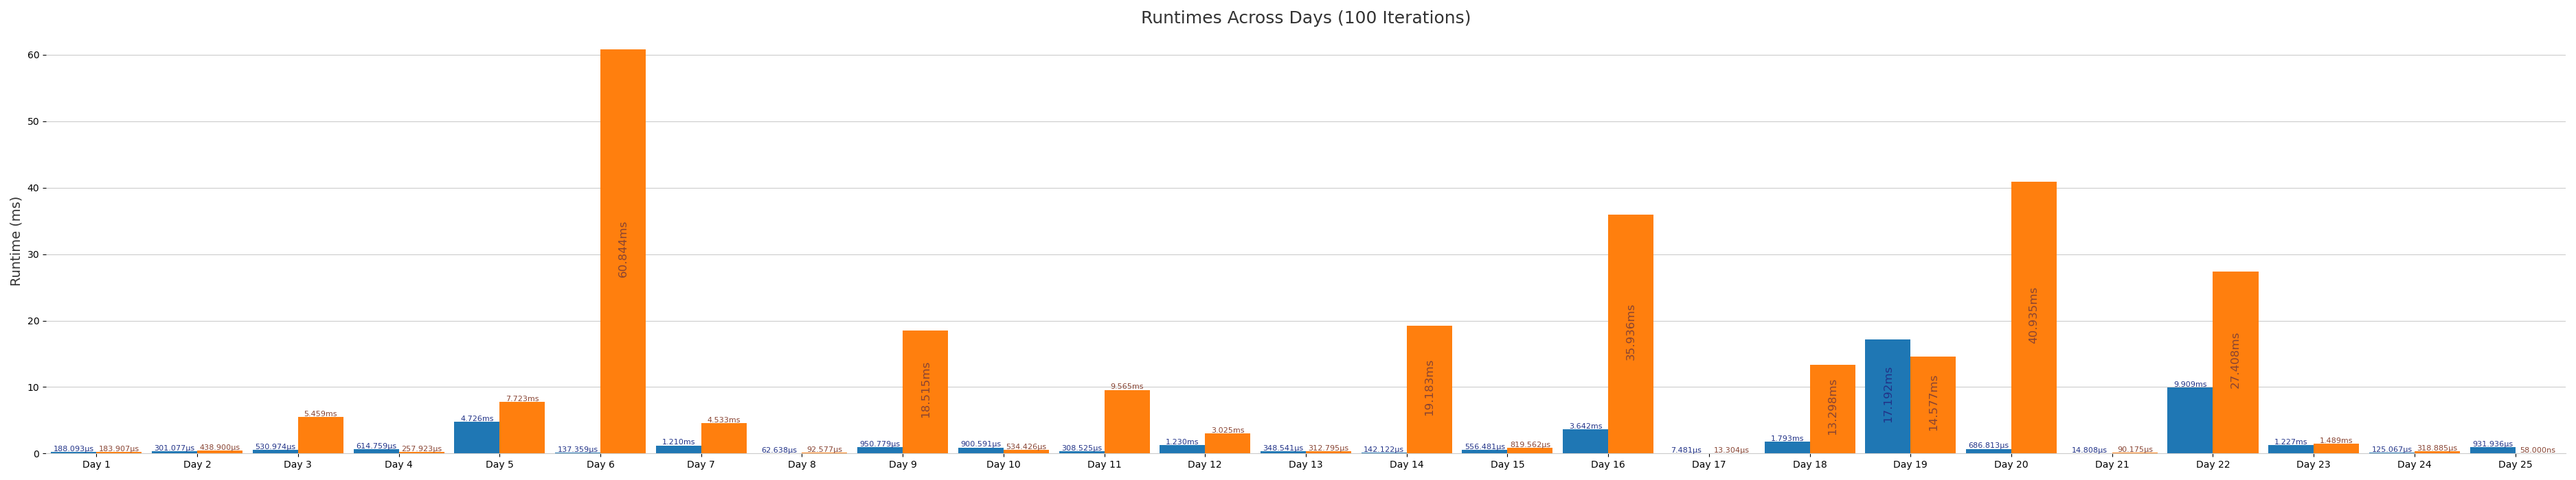
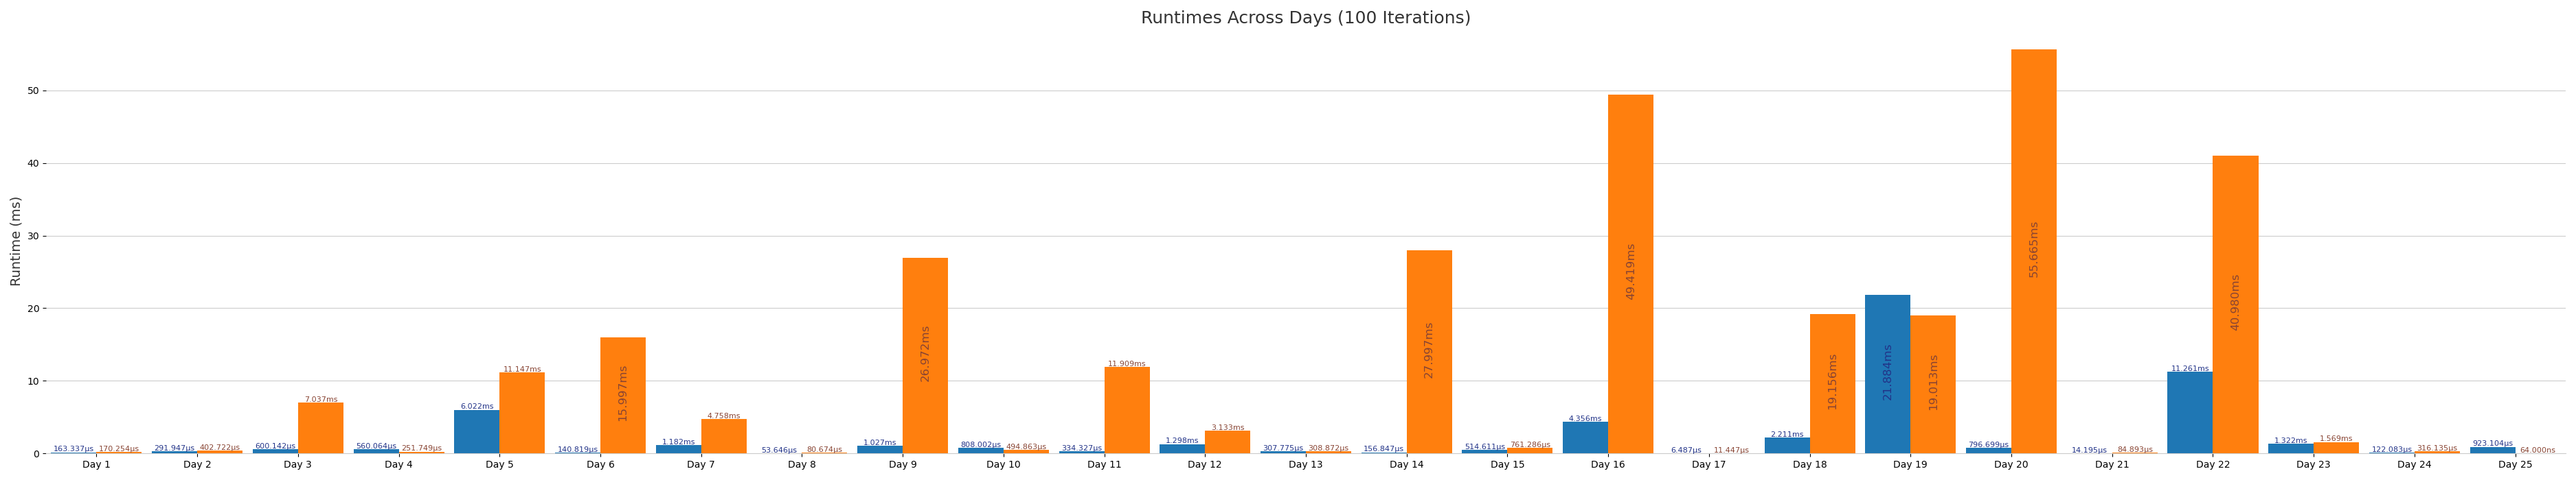
Day 6 🚀

diff --git a/day6/src/main.rs b/day6/src/main.rs
@@ -1,3 +1,5 @@
+use ahash::AHashSet;
+use rayon::prelude::*;
 use utils::test_solutions;
 
 fn main() {
@@ -6,37 +8,12 @@ fn main() {
 
 /* ------------------- Helpers ------------------- */
 
-#[derive(Debug)]
-enum DIRECTION {
-    UP,
-    DOWN,
-    LEFT,
-    RIGHT,
+fn dir_to_vec(dir: u8) -> (i32, i32) {
+    [(0, -1), (1, 0), (0, 1), (-1, 0)][dir as usize]
 }
 
-fn dir_to_vec(dir: &DIRECTION) -> (i32, i32) {
-    match dir {
-        DIRECTION::UP => (0, -1),
-        DIRECTION::RIGHT => (1, 0),
-        DIRECTION::DOWN => (0, 1),
-        DIRECTION::LEFT => (-1, 0),
-    }
-}
-
-fn rot_dir(dir: &DIRECTION) -> DIRECTION {
-    match dir {
-        DIRECTION::UP => DIRECTION::RIGHT,
-        DIRECTION::RIGHT => DIRECTION::DOWN,
-        DIRECTION::DOWN => DIRECTION::LEFT,
-        DIRECTION::LEFT => DIRECTION::UP,
-    }
-}
-
-/* ------------------- Solutions ------------------- */
-
-#[allow(unused_variables)]
-fn first_part(input: &str) -> i32 {
-    let mut grid: Vec<Vec<char>> = vec![];
+fn parse_input(input: &str) -> (Vec<Vec<char>>, (usize, usize)) {
+    let mut grid: Vec<Vec<char>> = Vec::with_capacity(input.lines().count());
     let mut guard: (usize, usize) = (0, 0);
 
     for (y, line) in input.lines().enumerate() {
@@ -50,10 +27,19 @@ fn first_part(input: &str) -> i32 {
         }
         grid.push(subgrid);
     }
+
+    (grid, guard)
+}
+
+/* ------------------- Solutions ------------------- */
+
+#[allow(unused_variables)]
+fn first_part(input: &str) -> u32 {
+    let (mut grid, mut guard) = parse_input(input);
     let height: usize = grid.len();
     let width: usize = grid[0].len();
 
-    let mut total: i32 = 0;
+    let mut total = 0;
 
     let mut direction: (i32, i32) = (0, -1);
     loop {
@@ -85,32 +71,19 @@ fn first_part(input: &str) -> i32 {
 }
 
 #[allow(unused_variables)]
-fn second_part(input: &str) -> i32 {
-    let mut grid: Vec<Vec<char>> = vec![];
-    let mut main_guard: (usize, usize) = (0, 0);
-
-    for (y, line) in input.lines().enumerate() {
-        let mut subgrid: Vec<char> = vec![];
-        for (x, char) in line.chars().enumerate() {
-            subgrid.push(char);
-
-            if char == '^' {
-                main_guard = (x, y);
-            }
-        }
-        grid.push(subgrid);
-    }
+fn second_part(input: &str) -> u32 {
+    let (grid, main_guard) = parse_input(input);
     let height: usize = grid.len();
     let width: usize = grid[0].len();
 
     // Run the guard once and store the path.
     let mut guard = main_guard.clone();
 
-    let mut wall_poses: Vec<(usize, usize)> = vec![];
-    let mut direction: DIRECTION = DIRECTION::UP;
+    let mut main_path: AHashSet<(usize, usize)> = AHashSet::new();
+    let mut direction: u8 = 0;
     loop {
         let (fx, fy) = guard;
-        let (dx, dy) = dir_to_vec(&direction);
+        let (dx, dy) = dir_to_vec(direction);
 
         let (nx, ny) = ((fx as i32 + dx) as usize, ((fy as i32) + dy) as usize);
         if nx >= width || ny >= height {
@@ -119,14 +92,12 @@ fn second_part(input: &str) -> i32 {
 
         match grid[ny][nx] {
             '#' => {
-                direction = rot_dir(&direction);
+                direction = (direction + 1) % 4;
                 guard = (fx, fy);
             }
             '.' => {
                 guard = (nx, ny);
-                if !wall_poses.contains(&guard.clone()) {
-                    wall_poses.push(guard.clone());
-                }
+                main_path.insert(guard.clone());
             }
             _ => {
                 guard = (nx, ny);
@@ -134,43 +105,43 @@ fn second_part(input: &str) -> i32 {
         }
     }
 
-    let mut loops: i32 = 0;
-    for (wall_x, wall_y) in wall_poses.iter() {
-        grid[*wall_y][*wall_x] = '#';
-        guard = main_guard.clone();
+    let looping_paths = main_path.par_iter().filter(|(x, y)| {
+        let mut guard = main_guard.clone();
 
         let mut visited: Vec<Vec<i8>> = vec![vec![0; width]; height];
-        let mut direction: DIRECTION = DIRECTION::UP;
+        let mut direction: u8 = 0;
 
         loop {
             let (fx, fy) = guard;
-            let (dx, dy) = dir_to_vec(&direction);
+            let (dx, dy) = dir_to_vec(direction);
 
             if visited[fy][fx] > 2 {
-                loops += 1;
-                break;
+                return true;
             }
 
             visited[fy][fx] += 1;
 
             let (nx, ny) = ((fx as i32 + dx) as usize, ((fy as i32) + dy) as usize);
             if nx >= width || ny >= height {
-                break;
+                return false;
             }
 
-            match grid[ny][nx] {
-                '#' => {
-                    direction = rot_dir(&direction);
-                    guard = (fx, fy);
-                }
-                _ => {
-                    guard = (nx, ny);
+            if ny == *y && nx == *x {
+                direction = (direction + 1) % 4;
+                guard = (fx, fy);
+            } else {
+                match grid[ny][nx] {
+                    '#' => {
+                        direction = (direction + 1) % 4;
+                        guard = (fx, fy);
+                    }
+                    _ => {
+                        guard = (nx, ny);
+                    }
                 }
             }
         }
+    });
 
-        grid[*wall_y][*wall_x] = '.';
-    }
-
-    loops
+    looping_paths.count() as u32
 }
